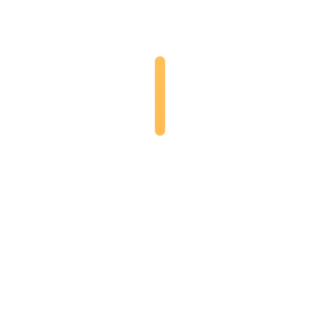
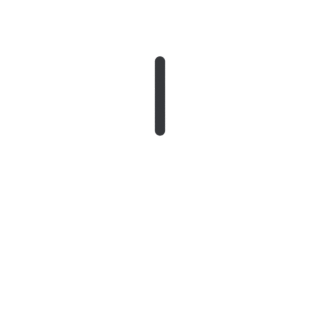
0009: Glow-Up's knob pointers in dark polished metal
The amber line was hard to read against the bright aluminium top; a
dark, shiny metal inlay reads clearly. Controls re-rendered, editor
snapshots re-blessed.

Changed region(s): [[0.4688, 0.1562, 0.5312, 0.4375]]

diff --git a/art/glow-up/blender/controls.py b/art/glow-up/blender/controls.py
@@ -2,8 +2,9 @@
 `crates/glow-up/glow-up.svg`, in the style of a modern rack unit:
 
 - the knob: machined aluminium, a finely knurled skirt under a smooth
-  band, a chamfered top with concentric turning marks, and a line cut in
-  it and filled with the panel's amber. A cycled skin:
+  band, a chamfered top with concentric turning marks, and a line inlaid
+  in it in dark polished metal, which reads against the bright top as
+  amber didn't. A cycled skin:
   `knob_pointer.png` (the line alone, at 12 o'clock), then
   `knob_body_N.png`, the body turned evenly across one knurl period
   (`KNURL_PERIOD`). The same frames serve the large knobs and the small
@@ -50,6 +51,8 @@ KNOB_SPAN = 2.5
 KEY_SPAN = 1.3
 # The panel's amber, #f2a33a (faceplate.py's ACCENT), linear.
 AMBER = (0.888, 0.366, 0.0423)
+# The pointer's dark polished metal, like black chrome: linear base colour.
+GUNMETAL = (0.03, 0.032, 0.036)
 
 
 def args():
@@ -109,7 +112,7 @@ def build_knob():
     knurled = aluminium("knurled", roughness=0.35)
     band = aluminium("band", roughness=0.26)
     top = aluminium("top", roughness=0.42, turned=True)
-    fill = studio.material("amber fill", AMBER, roughness=0.35, emission=AMBER, strength=0.4)
+    fill = studio.material("gunmetal", GUNMETAL, metallic=1.0, roughness=0.12)
     parts = [
         studio.prism("skirt", studio.fluted(1.0, 0.035, KNURLS, per=8), 0.0, 0.34, knurled,
                      bevel=0.03, segments=3),

diff --git a/tickets/open/0009-glow-up-faceplate.md b/tickets/open/0009-glow-up-faceplate.md
@@ -39,7 +39,7 @@ unit like Beverley and Wesley, but modern rather than 1990s (decided
   THRESHOLD and GRID under it; BOOST B; FILTER (RESONANCE, FOCUS; WIDTH,
   TONE, SPEED); OUTPUT (MIX, DRY CUT).
 - `art/glow-up/blender/controls.py`: a machined aluminium knob (60-ridge
-  knurl, turned top, an amber line), cycled every 6° with four body
+  knurl, turned top, a dark polished-metal line), cycled every 6° with four body
   frames, used as `knob` and `knob_small`; a soft-touch key with an amber
   LED, off and lit. About 40 s.
 - Beverley's `blender/panel.py` gains a hex button-head screw with no

diff --git a/art/glow-up/README.md b/art/glow-up/README.md
@@ -2,7 +2,7 @@
 
 Glow-Up looks like a modern rack unit: graphite anodised aluminium with a
 horizontal brush, light legends and fine scales, machined aluminium knobs
-with an amber line, soft-touch keys with amber LEDs, and black hex
+with a dark polished-metal line, soft-touch keys with amber LEDs, and black hex
 button-head rack screws. Beverley and Wesley are its 1990s siblings.
 
 Everything here is original, drawn and modelled for vxn-free, under the
